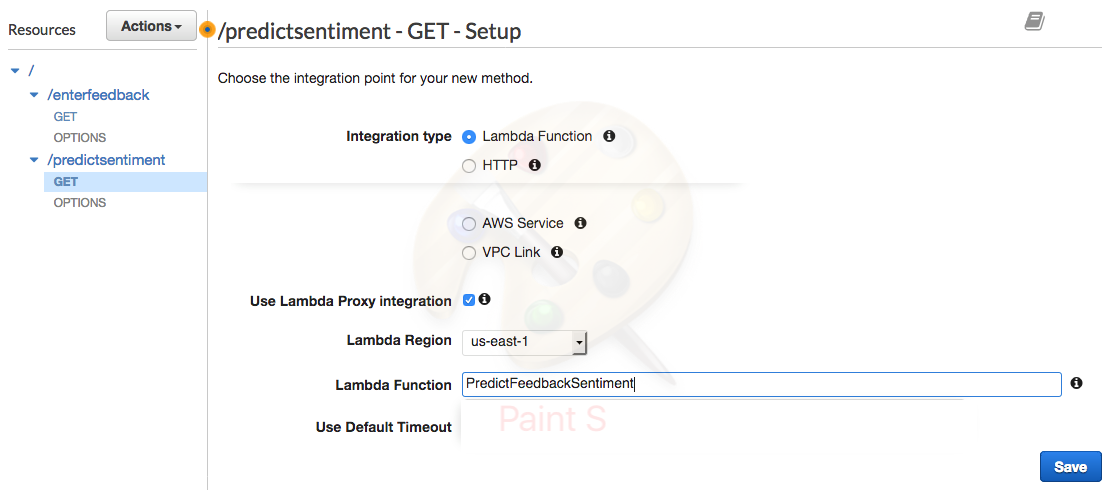
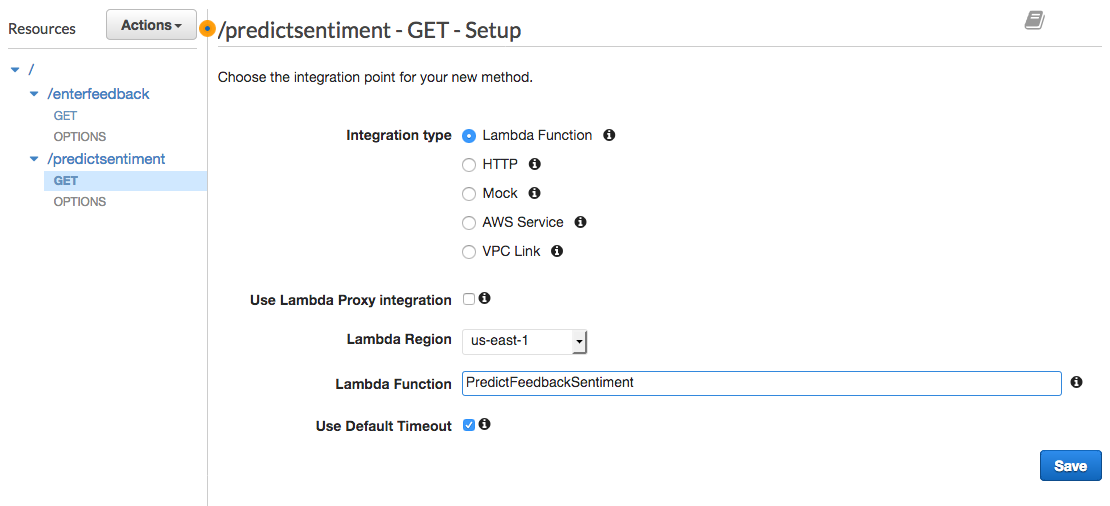
Updated API Gateway instructions for module-2

diff --git a/2_SentimentAnalysis/README.md b/2_SentimentAnalysis/README.md
@@ -186,6 +186,8 @@ Create a new resource called `/predictsentiment` within your API. Then create a 
 
 1. Ensure the **Resource Path** is set to `predictsentiment`.
 
+1. Select **Enable API Gateway CORS** for the resource. 
+
 1. Click **Create Resource**.
 
     ![Create resource screenshot](images/create-resource.png)
@@ -197,8 +199,6 @@ Create a new resource called `/predictsentiment` within your API. Then create a 
     ![Create method screenshot](images/create-method.png)
 
 1. Select **Lambda Function** for the integration type.
-
-1. Check the box for **Use Lambda Proxy integration**.
 
 1. Select the Region you are using for **Lambda Region**.
 
@@ -245,7 +245,7 @@ From the Amazon API Gateway console, choose Actions, Deploy API. You'll be promp
 
 1. Choose **Deploy**.
 
-1. Note the **Invoke URL**, it should stay the same as the one created during the previous module. The Javascript file under `js/config.js` in your website config bucket should already have the same URL specified for `invokeUrl` parameter. 
+1. Note the **Invoke URL**, it should stay the same as the one created during the previous module. The Javascript file under `js/config.js` in your website config bucket should already have the same URL specified for `invokeUrl`. 
 
 </p></details>
 
